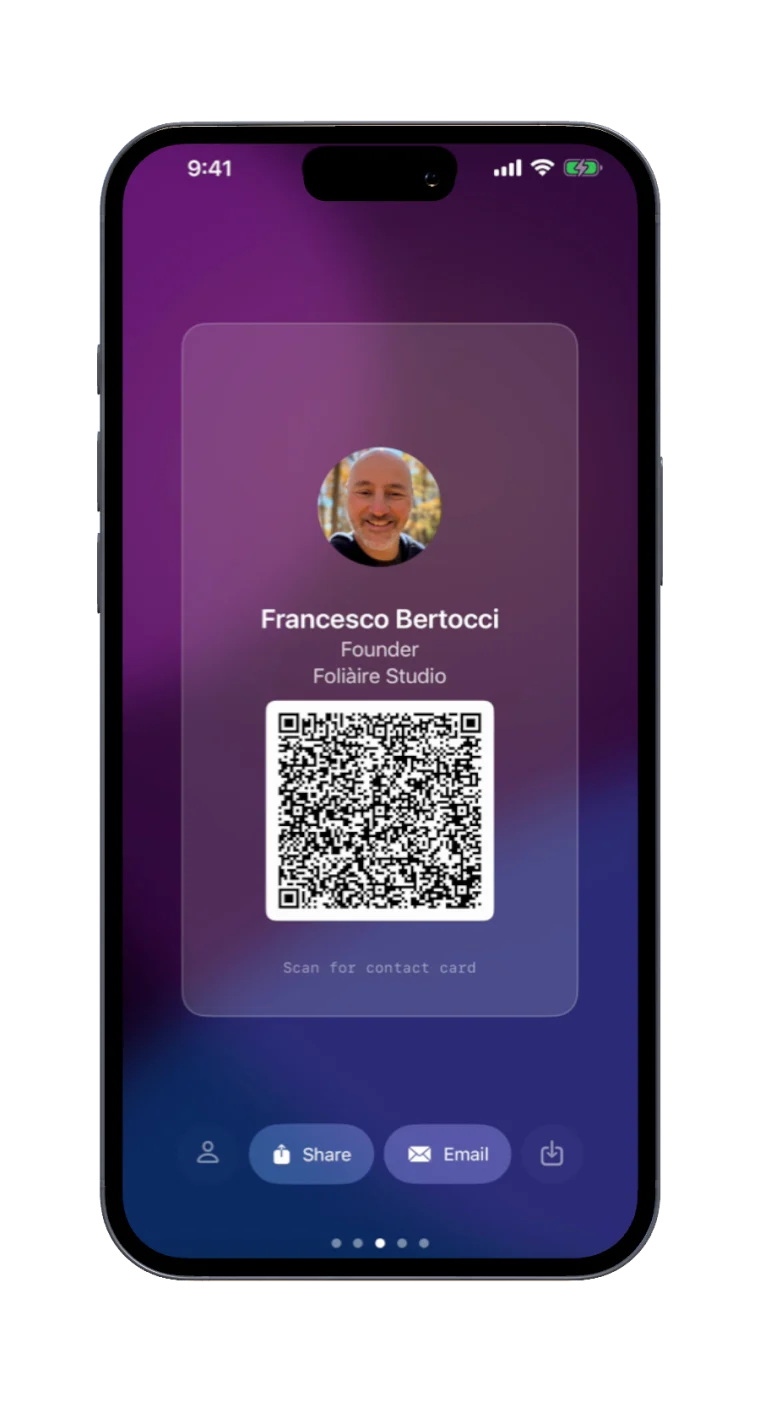
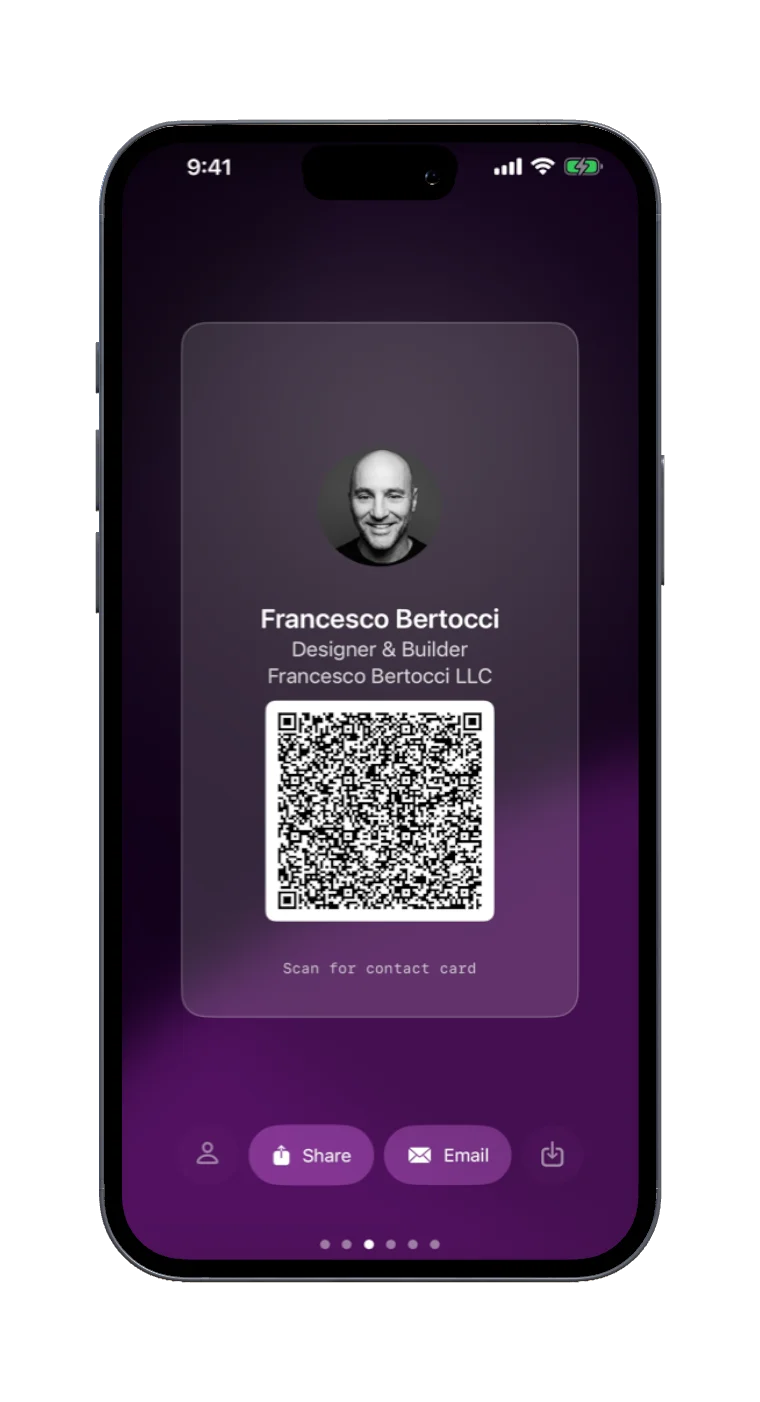
Site: Designer & Builder shots with the Share link UI; files section no longer promises Mail Drop
Held until 3.1.1 is live.

diff --git a/index.html b/index.html
@@ -378,7 +378,7 @@
     </div>
     <div class="phoneWrap">
         <img class="devshot" src="media/shots/card.webp" width="760" height="1402"
-             loading="lazy" decoding="async" alt="A Handleshare card for Foliàire Studio, showing the photo, name, title and the QR code that carries the whole contact.">
+             loading="lazy" decoding="async" alt="A Handleshare card for Designer &amp; Builder, showing the photo, name, title and the QR code that carries the whole contact.">
       </div>
   </div>
 </section>
@@ -389,7 +389,7 @@
     <div class="phoneWrap">
       <img class="devshot" src="media/shots/share.webp" width="760" height="1402"
            loading="lazy" decoding="async"
-           alt="The Handleshare share sheet: a live preview of the card at the top, and switches below for profile photo, job title, pronouns, phone, email and each link.">
+           alt="The Handleshare share sheet: a live preview of the card at the top, switches for profile photo, job title, pronouns, phone and email, and Share link and Send files at the bottom.">
     </div>
     <div class="copy">
       <p class="kicker">Control</p>
@@ -449,7 +449,7 @@
     <div class="copy">
       <p class="kicker">Files</p>
       <h2>Send the portfolio with the card</h2>
-      <p>Attach a rate card, menu, resume or lookbook and it travels with your card. Pick which files go out with each share, and let Mail Drop handle the big ones.</p>
+      <p>Attach a rate card, menu, resume or lookbook and it travels with your card. Pick which files go out with each share. Send them as they are, or as one card link that arrives anywhere, whatever the size.</p>
       <ul class="bul">
         <li><svg viewBox="0 0 24 24" aria-hidden="true"><use href="#i-file"/></svg>PDFs, images and documents from Files or camera</li>
         <li><svg viewBox="0 0 24 24" aria-hidden="true"><use href="#i-check"/></svg>Choose what's included, share by share</li>
@@ -457,7 +457,7 @@
     </div>
     <div class="phoneWrap">
         <img class="devshot" src="media/shots/files.webp" width="760" height="1402"
-             loading="lazy" decoding="async" alt="The Handleshare share sheet scrolled to Attachments, with a résumé PDF selected and a live preview of exactly what the recipient will get.">
+             loading="lazy" decoding="async" alt="A card link, ready to share: a résumé and a portfolio reel with the card they came from, a QR code, and buttons to share, copy or preview the link.">
       </div>
   </div>
 </section>
